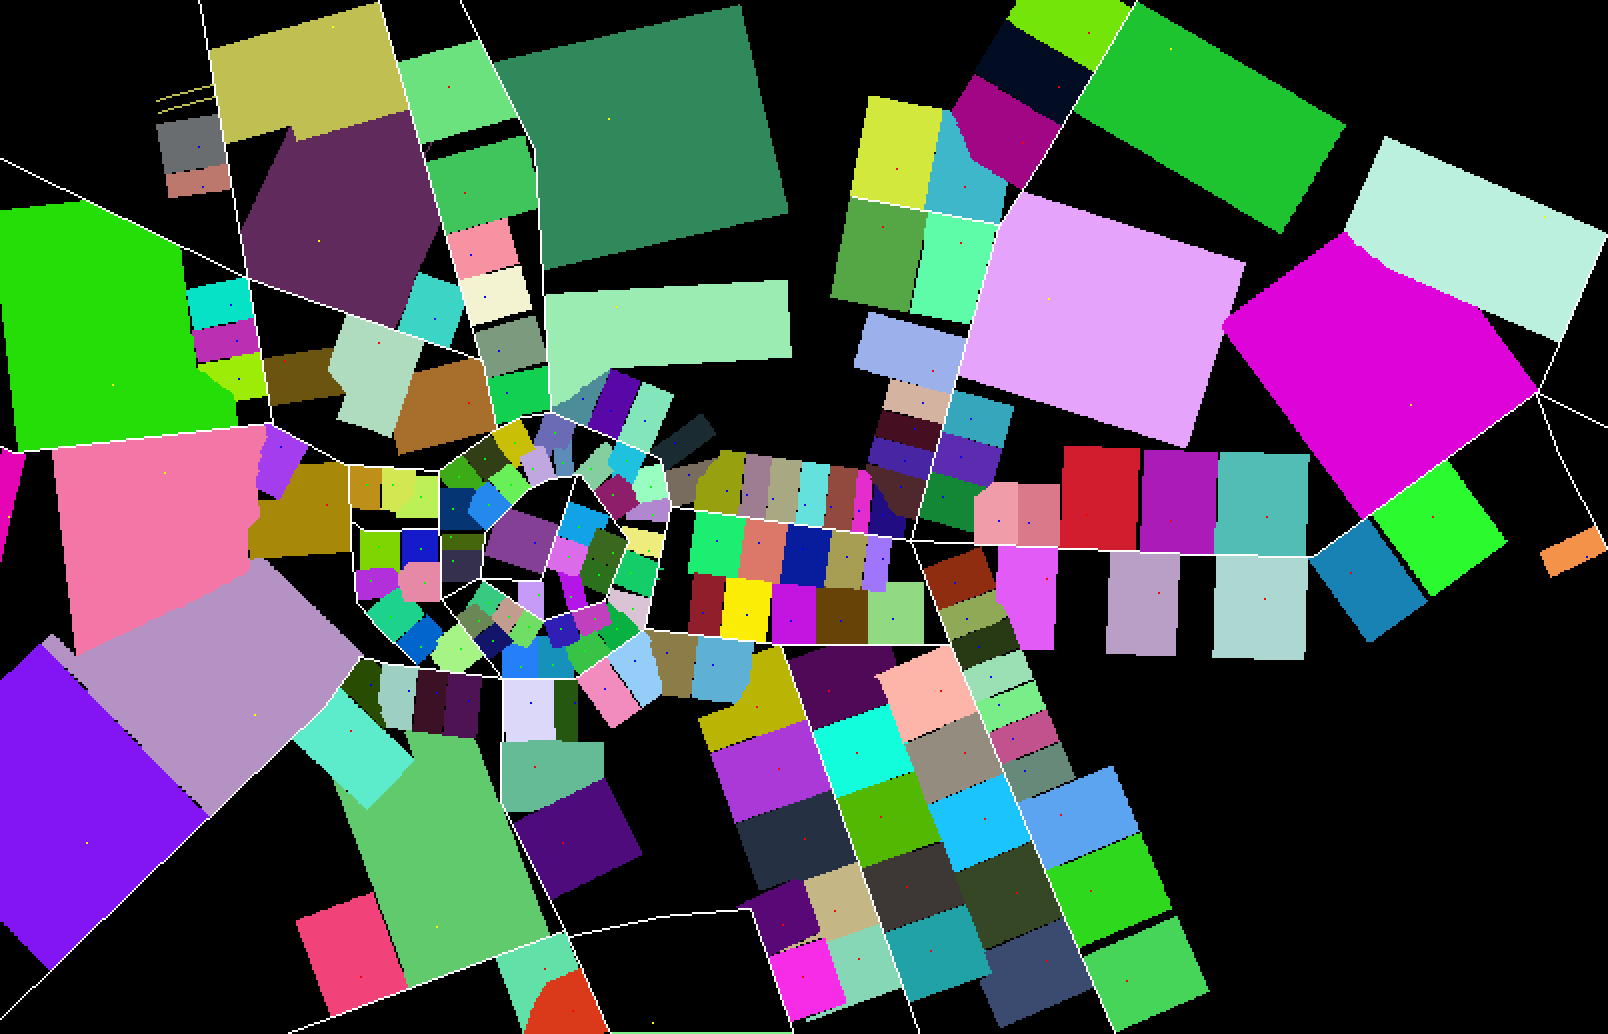
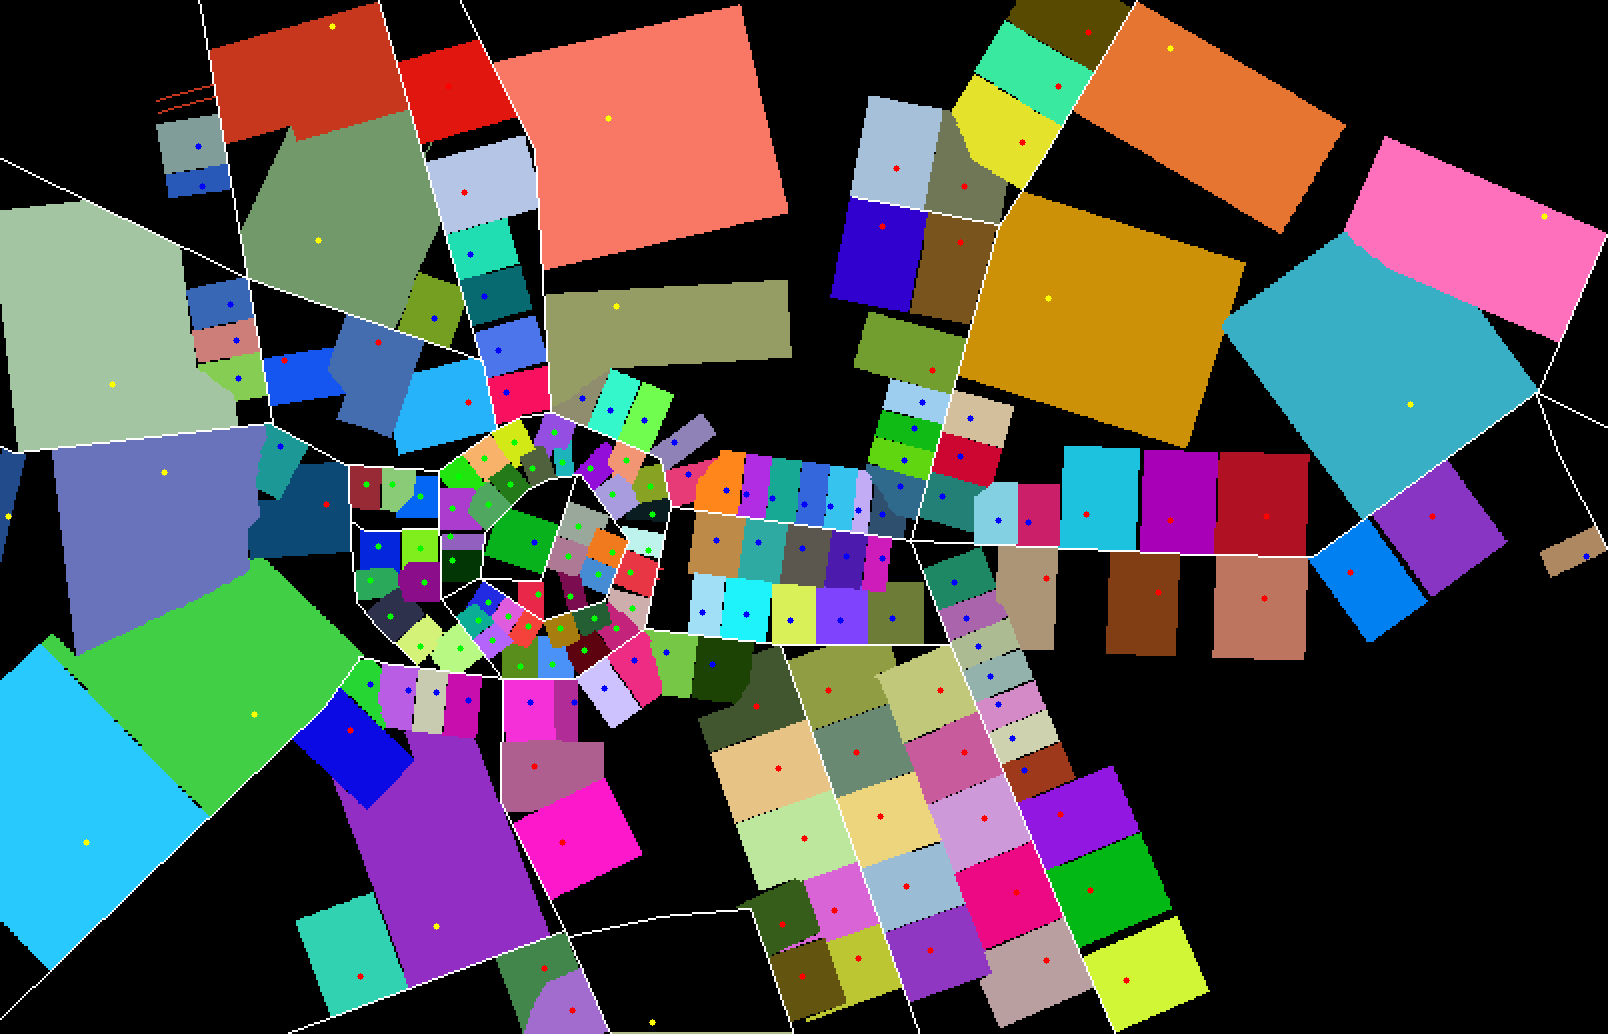
0825

diff --git a/parcel_geomotry.py b/parcel_geomotry.py
@@ -1,6 +1,7 @@
 import numpy as np
 import cv2
 import threading
+import time
 
 # algorithm of parcel division based on geometry
 
@@ -487,7 +488,6 @@ def mouse_event(event, x, y, flags, param):
 
 
 def generate_parcel(Building):
-    global img
     Building.Init()
     Building.RoadConquest()
     Building.RegionConquest()
@@ -507,9 +507,16 @@ def load_raw_png(path, out_path):
 if __name__ == '__main__':
     # load_raw_png('parcel_real_raw.png', 'parcel_real_h2.png')
 
+    total_time = 0.0
+    start = time.time()
     load_data_from_png('parcel_real2.png')
     img = cv2.imread('parcel_real2.png')
     MarkNeighborsOfAllBuildings()
+    end = time.time()
+    print('load data time: ', end - start, 's')
+    total_time += end - start
+
+    start = time.time()
     # indices = [118]
     indices = range(0, len(Buildings))
     for index in indices:
@@ -518,6 +525,12 @@ if __name__ == '__main__':
         if Buildings[index].Redo:
             Buildings[index].Borders.clear()
             generate_parcel(Buildings[index])
+            Buildings[index].Redo = False
+    end = time.time()
+    print('generate time: ', end - start, 's')
+    total_time += end - start
+
+    start = time.time()
     for index in indices:
         if Buildings[index].Width == 15:
             color = (255, 255, 0)
@@ -529,6 +542,21 @@ if __name__ == '__main__':
             color = (0, 200, 255)
         Buildings[index].DrawLine(img, 1, color, 1)
     img = cv2.resize(img, (img.shape[1] * 2, img.shape[0] * 2), interpolation=cv2.INTER_NEAREST)
+    for index in indices:
+        if Buildings[index].Width == 15:
+            color = (0, 255, 0)
+        elif Buildings[index].Width == 25:
+            color = (255, 0, 0)
+        elif Buildings[index].Width == 50:
+            color = (0, 0, 255)
+        else:
+            color = (0, 255, 255)
+        cv2.circle(img, (int(Buildings[index].Center[0] * 2), int(Buildings[index].Center[1] * 2)), 3, color, -1)
+    end = time.time()
+    print('draw time: ', end - start, 's')
+    total_time += end - start
+    print('total time: ', total_time, 's')
+
     cv2.imshow('img', img)
     cv2.waitKey(0)
     cv2.imwrite('geo_divide.png', img)

diff --git a/parcel_v2.py b/parcel_v2.py
@@ -1,6 +1,7 @@
 import numpy as np
 import cv2
 from numpy.random import random
+import time
 
 # algorithm of parcel division based on pixel image
 
@@ -379,6 +380,8 @@ def RegionConquest(OccupiedMap: dict):
 
 
 if __name__ == '__main__':
+    total_time = 0.0
+    start = time.time()
     file = 'parcel_real2.png'
     load_data_from_png(file)
     img = cv2.imread(file)
@@ -393,7 +396,11 @@ if __name__ == '__main__':
     size3 = len(buildings3[0])
     size4 = len(buildings4[0])
     color = [np.uint8([random() * 255, random() * 255, random() * 255]) for i in range(size1 + size2 + size3 + size4)]
+    end = time.time()
+    print('load data time: ', end - start)
+    total_time += end - start
 
+    start = time.time()
     radius = 10
     target = range(size1)
     for i, x in enumerate(target):
@@ -416,7 +423,11 @@ if __name__ == '__main__':
 
     RoadConquest(hashmap)
     RegionConquest(hashmap)
+    end = time.time()
+    print('generate time: ', end - start)
+    total_time += end - start
 
+    start = time.time()
     for Key, Value in hashmap.items():
         img[Key[1], Key[0]] = color[Value]
 
@@ -425,6 +436,19 @@ if __name__ == '__main__':
     #         img[Node[1], Node[0]] = color[Building.Index]
 
     img = cv2.resize(img, (img.shape[1] * 2, img.shape[0] * 2), interpolation=cv2.INTER_NEAREST)
+    for i in range(size1):
+        cv2.circle(img, (buildings1[0][i] * 2, buildings1[1][i] * 2), 3, (0, 255, 0), -1)
+    for i in range(size2):
+        cv2.circle(img, (buildings2[0][i] * 2, buildings2[1][i] * 2), 3, (255, 0, 0), -1)
+    for i in range(size3):
+        cv2.circle(img, (buildings3[0][i] * 2, buildings3[1][i] * 2), 3, (0, 0, 255), -1)
+    for i in range(size4):
+        cv2.circle(img, (buildings4[0][i] * 2, buildings4[1][i] * 2), 3, (0, 255, 255), -1)
+    end = time.time()
+    print('draw time: ', end - start)
+    total_time += end - start
+    print('total time: ', total_time)
+
     cv2.imshow('img', img)
     cv2.waitKey(0)
     cv2.imwrite('pixel_grow.png', img)
